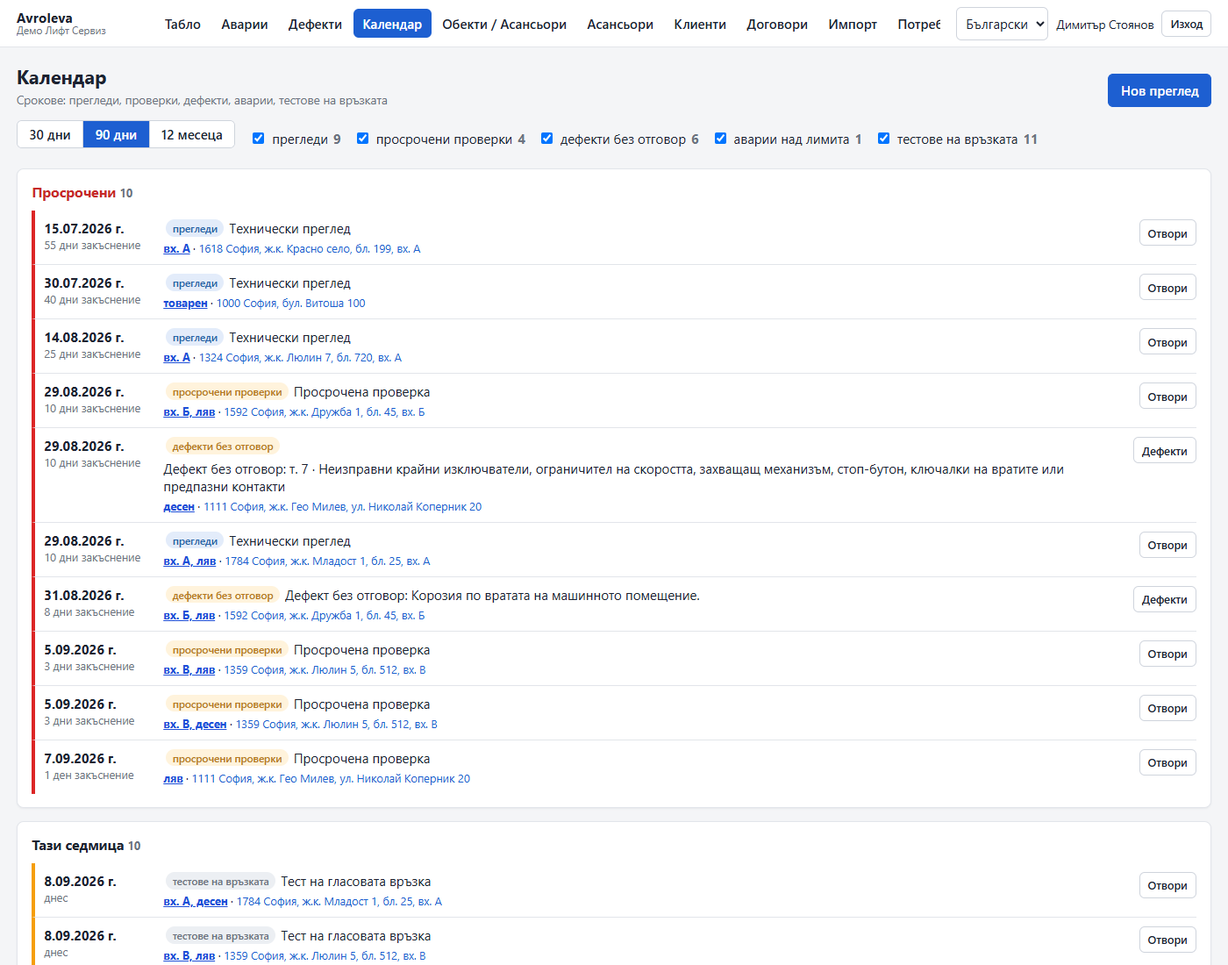
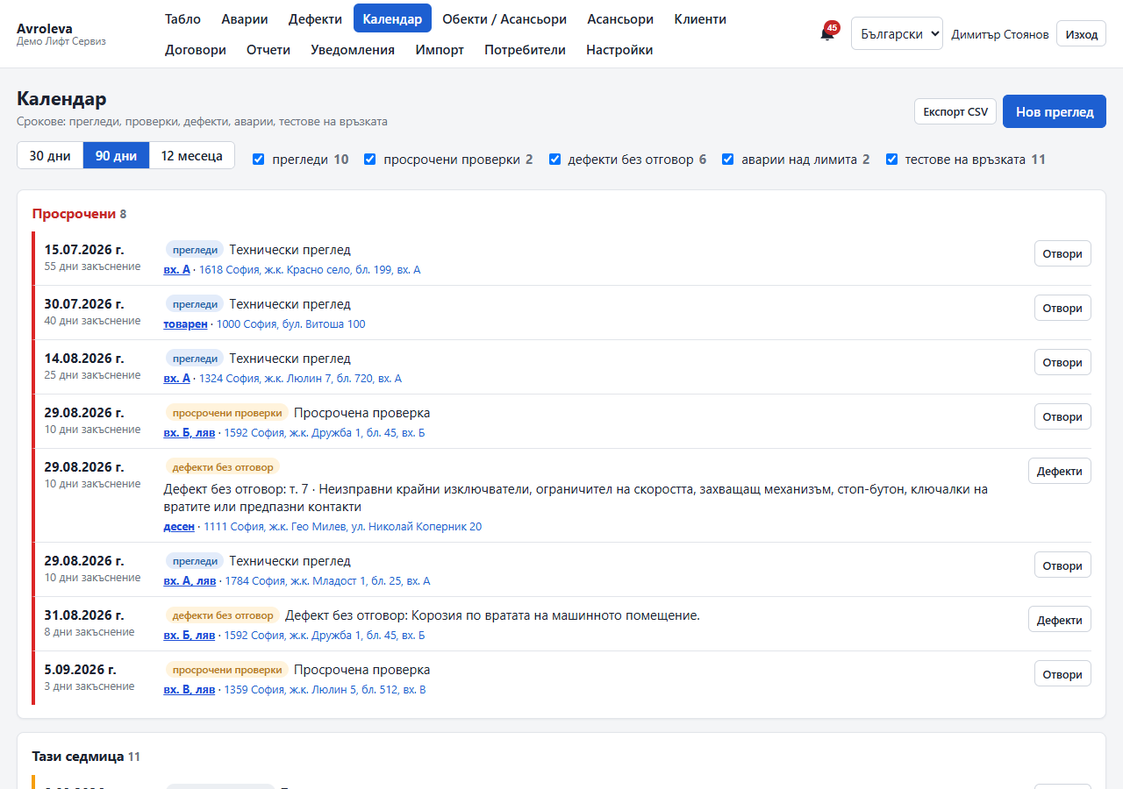
docs: QA log, step 5 handoff verification, README rewrite, morning report, screenshots
- docs/QA-2026-09-08.md: 11 bugs found and fixed, everything exercised in the browser (owner,
  office, technician, admin, technician app offline/online), security quick-check, gate status.
- HANDOFF-STEP5.md section 5: the office UI of step 5 and its browser verification.
- README.md: what Avroleva is, feature list, screenshot gallery, quickstart, workspace layout,
  document index. MORNING-REPORT.md for the founder: what was built, how to run, status,
  deviations, gaps with sizes, deploy summary, decisions needed.
- docs/screenshots: dashboard/callbacks/calendar retaken after the nav fix; new notifications,
  notification-settings, data-settings, defects, elevator, reports, users, qr-labels,
  tech-outbox-offline, admin-tenants.

diff --git a/MORNING-REPORT.md b/MORNING-REPORT.md
@@ -1,0 +1,87 @@
+# Avroleva — morning report (2026-09-08)
+
+Everything below is committed on `main` in this folder. Nothing was pushed to GitHub and the VPS was not touched. Unverified claims are marked as such; everything else was exercised in a browser or a test run tonight.
+
+## What was built overnight
+
+| Step | What exists now | Handoff / screenshots |
+|---|---|---|
+| 1 Foundation | Monorepo (api/office/tech + contracts/i18n/domain-data), Prisma schema, sessions, platform admin, tenant registration, registry (customers, contacts, buildings with geocoding, elevators, contracts), CSV import with preview, office shell with bg/en. | `HANDOFF-STEP1.md` |
+| 2 Dashboard | 30-day cycle engine, visits, light billing (gapless invoices, VAT, payments), dashboard read model: map with pins by due state, due board, payments widget, elevator panel. | `HANDOFF-STEP2.md`, `dashboard.png`, `elevator.png` |
+| 3 Callbacks, defects, calendar | Callback flow with SLA timer, defect catalogue with follow-up clock and stop-lift ring, inspections and alarm tests, public QR page with fault form, printable defect notice / inspection request / QR labels. | `HANDOFF-STEP3.md`, `callbacks.png`, `defects.png`, `calendar.png`, `public-page.png`, `qr-labels.png` |
+| 4 Technician app | Offline-first PWA: QR enrollment, device sessions, Today list, visit form with checklist snapshot, camera, second technician, outbox with idempotency keys, printable logbook page. | `HANDOFF-STEP4.md`, `tech-today.png`, `tech-visit.png`, `logbook-print.png` |
+| 5 Scheduler, notifications, exports | pg-boss jobs (11), outbox delivery with retries, notification rules × channels × templates (bg/en, tenant overrides), delivery log and bell, CSV + full zip export, delete-my-data with 30-day grace, monthly building report (print + e-mail), admin system page. Office UI for all of it. | `HANDOFF-STEP5.md`, `notifications.png`, `notification-settings.png`, `data-settings.png`, `building-report.png` |
+| 6 QA + deploy (tonight) | Full QA pass with 11 fixes, regression tests, production Docker image verified locally behind nginx, compose, nginx snippet, backup/restore/deploy scripts, CI workflow, `DEPLOY.md`, this report. | `docs/QA-2026-09-08.md`, `DEPLOY.md`, `tech-outbox-offline.png`, `admin-tenants.png` |
+
+## Run it locally (five commands)
+
+```bash
+docker start unclecrm-db     # the shared dev Postgres (or: docker compose up -d db and set DATABASE_URL to :5436)
+npm install
+npm run db:reset             # drop + migrate + seed the demo tenant (dev DB only)
+npm run dev                  # API :3005, office http://localhost:5175, technician app http://localhost:5176/tech/
+npm test                     # 215 tests against avroleva_test
+```
+
+Logins: owner `demo` / `demo1234`, office `maria` / `demo1234`, technician `ivan` / `demo1234`, platform admin `admin` / `admin12345` at `http://localhost:5175/admin/login`. To try the phone app on the desktop: Потребители → "Свържи телефон" for Иван → open the printed URL in another browser profile.
+
+## Status
+
+- `npm run typecheck`: green (api, office, tech).
+- `npm run lint`: green (eslint + prettier).
+- `npm test`: **215 passed** (i18n 12; API unit 94 + integration 109), 0 failed. Three new regression tests tonight.
+- `npm run build`: green (packages, api, office, tech incl. service worker).
+- Docker: `docker/Dockerfile` built and run as a throwaway stack (`avroleva-verify`, port 3105) with the real nginx snippet in front: health with the worker running and `callbacks.slaWatch` ticking, login, dashboard with 19 pins, elevator page with photo thumbnails, `/avroleva/tech/` loads and enrolls a phone, logbook print page, public QR page, CSV export with BOM, `backup.sh` + `restore-drill.sh` (dump restored into a scratch container: 1 tenant, 20 elevators, 347 visits, 15 attachments). Stack removed afterwards. **Not verified:** service-worker registration inside the embedded browser (the file serves correctly; confirm the PWA install on a real phone after deploy), and the CI workflow has never run (no GitHub remote yet).
+
+## Verified in the browser tonight (owner, office, technician, admin)
+
+Every office route in Bulgarian and English at 1280 px and in Bulgarian at 820 px with zero console errors, zero failed API calls and zero raw i18n keys. Through the UI: visit from the dashboard and from the elevator page; callback open → dispatch → on site → close (response time computed, close-out visit recorded); stop-lift defect (map ring appears, resolve → disappears); inspection added; October invoices generated (12) and one paid; CSV export and full zip export (signed link, expired/tampered → 404); all six `/print/*` pages; public `/p/:token` page with a fault report (6th within the hour → 429); QR label sheet. Roles: technician gets 403 on money/users/exports/settings in the API and never sees them in the UI; office cannot manage users or the tenant. Admin: registered a new company, its owner saw an empty tenant and 404 on every demo-tenant id (incl. print pages), deactivate → 401, reactivate → login works. Technician app: enrolled with the office token, visit with photo online, API killed, second visit with photo recorded offline ("2 записа чакат"), API restarted, both visits arrived with photos. Details: `docs/QA-2026-09-08.md`.
+
+## Bugs found and fixed in QA (11)
+
+The two that mattered: (1) the overdue roll ran before every billing read, so concurrent page loads emitted `InvoiceOverdue` 3–5 times per invoice — the bell showed 99+ right after a reset; now one atomic `UPDATE … RETURNING`. (2) The seed's months of history were re-delivered by the outbox sweep as 266 fresh notifications on the first API start; the seed now acknowledges its own events. Also: the technician app was unreachable in the container (`/tech/` redirect loop) and photo URLs were double-prefixed behind `/avroleva/`; the top nav was clipped at 1280 px; technicians could see contract prices; there was no UI button to generate the month's invoices; small things (raw link label, favicons, a typecheck error, a gitignore rule). Full table in `docs/QA-2026-09-08.md`.
+
+## Deviations from ARCHITECTURE / MVP-PLAN and why
+
+- **PDF**: no Chromium renderer in the image. Every document is a print-ready HTML page (`/print/*`) and the monthly report goes out as an HTML attachment. Chromium adds ~250 MB and 150–250 MB RAM on a shared 3.8 GB VPS; the `PdfRenderer` port is where it plugs in when a customer needs PDF files.
+- **Notifications**: Viber is deep-link only (office taps the link, confirms "sent"); SMS has a generic HTTP adapter only, rules start OFF; e-mail is plain text turned into paragraphs. No per-contact opt-out yet.
+- **`calendar_item` and `maintenance_job` tables** are not materialised: the deadlines view derives from the read model and the cron only emits events. Simpler, and nothing needed the rows yet.
+- **Audit log is not hash-chained** (`prevHash/hash` columns still open); the full export's `manifest.json` covers zip integrity.
+- **`PUBLIC_BASE_URL` is the origin only** (`https://srv1662742.hstgr.cloud`), not `…/avroleva` as §7 says: the code appends `BASE_PATH` itself. `DEPLOY.md` and the env example are right; ARCHITECTURE §7 still has the old value.
+- **Pricing/subscription module is a skeleton**: no plan rows, no `trialing` state, no usage snapshots — the demo tenant has no subscription concept at all. This is the largest open item from MVP-PLAN phase 6.
+- **No Playwright suite committed** (the architecture calls for one nightly smoke). Tonight's browser scripts lived in a scratch folder; porting them is ~1 day.
+- **Row-level security** not used (as decided in §6); isolation is enforced in the repos and covered by tests.
+
+## Known gaps (rough sizes)
+
+| Gap | Size |
+|---|---|
+| Pricing plans, subscription state, 3-month trial, usage counting, admin view of who pays | 3–4 days |
+| PDF renderer (Chromium or Gotenberg sidecar) + branded e-mail layout | 2 days |
+| Real SMS adapter for a Bulgarian aggregator; Viber Business adapter (flagged) | 1 day each |
+| Per-contact notification opt-out; delivery webhooks | 1 day |
+| Playwright e2e suite (port of tonight's scripts) + nightly run | 1 day |
+| Audit hash chain + verifier script | 1 day |
+| Offsite backup copy (restic → B2 / Storage Box) and UptimeRobot | 0.5 day |
+| Full export streams to a temp file instead of memory (only matters past a few hundred MB) | 0.5 day |
+| Read-only mode during the deletion grace period; admin UI for the system page | 0.5 day each |
+
+## Deploy (summary — the exact commands are in `DEPLOY.md`)
+
+1. Create the GitHub repo (private, empty), push `main` from this PC with the repo-local identity.
+2. On the VPS: deploy key + `/root/.ssh/config` alias, clone to `/var/www/avroleva`, `cp .env.production.example .env` and fill the three secrets with `openssl rand -hex 32`, `SEED_DEMO=false` (or `true` for a demo tenant), `PUBLIC_BASE_URL=https://srv1662742.hstgr.cloud`.
+3. `docker compose -f docker-compose.prod.yml up -d --build` → the container migrates, seeds the admin, starts API + worker on `127.0.0.1:3005`.
+4. Copy `deploy/nginx-avroleva.conf` to `/etc/nginx/snippets/`, add one `include` line inside the existing `listen 443 ssl` server block, `nginx -t && systemctl reload nginx`; check the other five apps still return 200.
+5. Health: `https://srv1662742.hstgr.cloud/avroleva/api/v1/health` shows `worker.running: true`. Log in at `/avroleva/admin/login`, register the first firm.
+6. Cron `scripts/backup.sh` nightly; run `scripts/restore-drill.sh` once; rollback = `git checkout <previous tag> && up -d --build`.
+
+## Decisions needed from you (in priority order)
+
+1. **Domain, before any QR label is printed or any technician installs the app.** The PWA identity, its offline data and every printed QR code are bound to the origin. Path-prefix `srv…/avroleva/` is fine for demos; the founding customer must start on `app.<yourdomain>` (new server block + certbot). Also: the GitHub repo name.
+2. **Production secrets and the admin account**: `SESSION_SECRET`, `POSTGRES_PASSWORD`, `ADMIN_PASSWORD` generated on the VPS (commands in `DEPLOY.md`); whether the platform admin username stays `admin`.
+3. **Pricing configuration values**: per-elevator price, tiers (0/1–100/101–200), flat-plan option, VAT display, currency (EUR with BGN reference is what the UI shows now). Nothing is coded until you decide — see the gap table.
+4. **3-month trial mechanics**: trial start = registration or first import? What happens at the end (read-only, grace, e-mail sequence)? Who flips a tenant to paying (you in /admin)?
+5. **Notification channels to enable by default**: today in-app + e-mail rules are ON, SMS OFF, Viber deep-link ON for building contacts without e-mail. Which SMTP provider/sender address? Which SMS aggregator, if any?
+6. **Viber Business or not**: ~€150/month fixed; deep links work today but are manual and unverifiable. Suggest deferring until ~10 paying firms.
+7. **Keep the demo tenant in production?** `SEED_DEMO=true` gives you a sales demo at the same URL; it also means demo data sits next to real firms. Suggest: yes for now, purge before the first real invoice run.
+8. Smaller: `retentionYears` default (keep everything vs. N years), e-mail "from" name, whether office users may see the Viber phone links (they do now), and the monthly report send day.

diff --git a/README.md b/README.md
@@ -1,14 +1,77 @@
-# Avroleva — Elevator Business Site Code
+# Avroleva
 
-B2B SaaS for Bulgarian elevator-maintenance firms (асансьорни сервизи): a business-operations and customer-evidence layer on top of the paper logbook (дневник), shaped like the firm's working rhythm — 30-day functional checks, two technicians, the emergency response timer, the 17-item stop-defect catalogue, inspection dates, the long-term dossier. Regulator-facing outputs are deliberately out of the MVP (see `MVP-PLAN.md` backlog).
+Avroleva is a multi-tenant SaaS for Bulgarian elevator-maintenance firms (асансьорни сервизи). It is the business-operations and customer-evidence layer on top of the paper logbook (дневник): the 30-day functional checks with two technicians, the emergency-call response timer, the 17-item stop-defect catalogue, inspection dates, the monthly report to the building, light invoicing, and the long-term dossier a firm keeps for every lift. Each firm is a tenant with strict data isolation, can export all of its data at any time as CSV or a full zip, and can delete it after a 30-day grace period — the product holds the firm's own operational record for the firm alone.
 
-This folder holds the design documents **and the application code** (npm-workspaces monorepo: `apps/api`, `apps/office`, `apps/tech` (technician PWA), `packages/contracts`, `packages/i18n`, `packages/domain-data`). Step 1 (foundation: platform, tenancy, registry, office UI) is built — see [`HANDOFF-STEP1.md`](./HANDOFF-STEP1.md) for how to run it and what exists; the latest state is in [`HANDOFF-STEP5.md`](./HANDOFF-STEP5.md) (pg-boss scheduler, notifications, exports + delete-my-data, monthly building report); step 4 is [`HANDOFF-STEP4.md`](./HANDOFF-STEP4.md) (offline technician app, attachments, sync). The GitHub repo name is still to be confirmed with the founder (see `D:\Code\GITHUB-GUIDE.md`).
+The office app is a desktop-first React SPA in Bulgarian (English available) with a map of the portfolio, a due board, callbacks, defects, calendar, contracts, invoices, notifications and printable pages (logbook page, defect notice, inspection request, QR labels, monthly building report). Technicians use an offline-first PWA on their phone: enrolled by QR code, it caches today's lifts, records visits with checklist, photos and a second technician's name without a network, and syncs when one returns. Regulator-facing outputs are deliberately out of scope; the vocabulary everywhere is operational.
+
+## Features
+
+- **Register**: customers (ползватели) with contacts, buildings with geocoded addresses and access notes, elevators with intervals and inspection dates, contracts with per-elevator prices, CSV import with preview.
+- **Maintenance cycle**: per-elevator interval (30 days by default, rolling or calendar), due board (overdue / today / tomorrow), map pins coloured by due state, "record a visit" from the board or the elevator page, visits with checklist snapshot, photos and quality flags.
+- **Callbacks (аварии)**: intake by phone/office or from the public QR page, dispatch, on-site, close-out with cause/action and an automatic visit record; SLA timer with at-risk and breached events.
+- **Defects**: catalogue of the 17 stop-lift items plus free text, follow-up clock, notice to the building, "customer requested repair", stop-lift ring on the map until resolved.
+- **Calendar**: inspections (periodic, after repair, after stop) with alert steps, alarm-device tests, overdue checks, defect follow-ups — one deadlines view.
+- **Money (light)**: monthly invoices per contract with gapless numbering and VAT, payments (full/partial/unallocated), overdue roll, dashboard totals.
+- **Notifications**: rule matrix per event × channel (in-app, e-mail, SMS, Viber deep link) × recipient (building contact, owner, office, technician); Handlebars templates in bg/en with per-tenant overrides; delivery log; bell inbox.
+- **Reports and exports**: monthly building report (print + e-mail attachment), 13 CSV datasets, full zip export with SHA-256 manifest, delete-my-data with 30-day grace.
+- **Technician PWA**: QR enrollment with device sessions, Today list with call/navigate buttons, visit form with checklist, camera, second technician, outbox with retries, forced-update header.
+- **Platform admin**: register/deactivate tenants, reset owner passwords, system page (health, worker jobs, failed deliveries, scheduled deletions).
+- **Scheduler**: pg-boss in the same Postgres (no Redis) — hourly recompute, daily overdue roll, calendar alerts, SLA watch every minute, retention sweep, orphan cleanup, tenant purge, outbox catch-up.
+
+## Screenshots
+
+| | |
+|---|---|
+| ![Dashboard](docs/screenshots/dashboard.png) Dashboard: map, due board, payments | ![Callbacks](docs/screenshots/callbacks.png) Callbacks with the response timer |
+| ![Defects](docs/screenshots/defects.png) Defects with follow-up clock and stop-lift | ![Calendar](docs/screenshots/calendar.png) Deadlines calendar |
+| ![Elevator](docs/screenshots/elevator.png) Elevator page with history and photos | ![Notifications](docs/screenshots/notifications.png) Notifications log with Viber links |
+| ![Notification settings](docs/screenshots/notification-settings.png) Rules and template editor | ![Data settings](docs/screenshots/data-settings.png) Exports and delete-my-data |
+| ![Building report](docs/screenshots/building-report.png) Monthly building report (print) | ![Logbook page](docs/screenshots/logbook-print.png) Logbook page (print) |
+| ![QR labels](docs/screenshots/qr-labels.png) QR label sheet | ![Public page](docs/screenshots/public-page.png) Public QR page with fault form |
+| ![Tech today](docs/screenshots/tech-today.png) Technician app: Today | ![Tech visit](docs/screenshots/tech-visit.png) Technician app: visit form |
+| ![Tech outbox offline](docs/screenshots/tech-outbox-offline.png) Technician app: outbox while offline | ![Admin](docs/screenshots/admin-tenants.png) Platform admin |
+
+## Quickstart (local)
+
+Requirements: Node 22+, Docker Desktop (for Postgres). One `.env` at the repo root (copy `.env.example`; the defaults point at the shared dev Postgres container `unclecrm-db` on `localhost:5432`, or start `docker compose up -d db` and point `DATABASE_URL` at `127.0.0.1:5436`).
+
+```bash
+npm install
+npm run db:migrate        # creates the schema (and avroleva_test for the integration tests)
+npm run db:seed           # platform admin + system templates + demo tenant (SEED_DEMO=true)
+npm run dev               # API http://localhost:3005, office http://localhost:5175, tech http://localhost:5176/tech/
+npm test                  # i18n + API unit/integration tests against avroleva_test
+```
+
+`npm run db:reset` drops and reseeds the dev database. Demo logins: owner `demo` / `demo1234`, office `maria` / `demo1234`, technician `ivan` / `demo1234`, platform admin `admin` / `admin12345` at `/admin/login`. Other scripts: `npm run lint`, `npm run typecheck`, `npm run build`.
+
+## Workspace layout
+
+```
+apps/api/         Express 5 + Prisma + pg-boss: src/{main.ts, app.ts, worker.ts, jobs.ts, subscribers.ts,
+                  http/, modules/<m>/{domain,repo,http,index.ts}, platform/}; prisma/ (schema, migrations, seed); test/
+apps/office/      React 19 + Vite 7 office SPA (desktop-first, Leaflet map), built with VITE_BASE
+apps/tech/        React 19 + Vite 7 + vite-plugin-pwa + Dexie technician app, served by the API at /tech/
+packages/contracts/   zod schemas and DTO types shared by API and clients
+packages/domain-data/ checklists, defect catalogue, notification templates, calendar rules
+packages/i18n/        bg.json (source) + en.json, t() for server and clients
+docker/           Dockerfile (multi-stage) + entrypoint (migrate -> seed -> start)
+deploy/           nginx snippet for the /avroleva/ path prefix
+scripts/          deploy.sh, backup.sh, restore-drill.sh (VPS)
+docs/             screenshots, QA log
+```
+
+## Documents
 
 | Document | What it is |
 |---|---|
-| [`ARCHITECTURE.md`](./ARCHITECTURE.md) | Modular monolith design: modules and boundaries, adjustability mechanisms, data model, offline-first technician PWA, API, cross-cutting concerns (PDF, jobs, storage, backups, GDPR, security, observability), deployment on the shared Hostinger VPS, testing strategy, decisions log. |
-| [`MVP-PLAN.md`](./MVP-PLAN.md) | Build plan: phases 0–9 with scope, acceptance criteria and day estimates; the 2-week demo; the founding-customer data import plan; risks and their containment; definition of done for "first customer live". |
-| [`../Elevator Business Due Diligence/`](../Elevator%20Business%20Due%20Diligence/) | The research this design rests on. Start with `00-SYNTHESIS.md`; `01-LAW-AND-REGULATION.md` §10 is the legal checklist, §3.12 the functional-check appendix; `03-…-OPERATES.md` has the data-model hints and ranked pain points; `04-…-BENCHMARK.md` the MVP scope and deferrals. |
-| [`../Elevator Businesses Data/`](../Elevator%20Businesses%20Data/) | ДАМТН register of licensed firms (509 active certificates) — the lead list and the source of the regional-office seed. |
+| [`MORNING-REPORT.md`](./MORNING-REPORT.md) | What was built overnight, status, gaps, decisions needed. Start here. |
+| [`ARCHITECTURE.md`](./ARCHITECTURE.md) | Modular monolith design: modules and boundaries, adjustability, data model, offline-first PWA, API, cross-cutting concerns, deployment, testing, decisions log. |
+| [`MVP-PLAN.md`](./MVP-PLAN.md) | Build plan: phases 0–9, the 2-week demo, the founding-customer import plan, risks, definition of done. |
+| [`DEPLOY.md`](./DEPLOY.md) | VPS runbook: deploy key, `.env`, compose, nginx include, backups, restore drill, rollback, decisions before go-live. |
+| [`HANDOFF-STEP1.md`](./HANDOFF-STEP1.md) … [`HANDOFF-STEP5.md`](./HANDOFF-STEP5.md) | Per-step handoffs: foundation; dashboard; callbacks/defects/calendar/public page; offline technician app; scheduler/notifications/exports/reports. |
+| [`docs/QA-2026-09-08.md`](./docs/QA-2026-09-08.md) | The QA pass: bugs found and fixed, what was exercised, security quick-check. |
+| `../Elevator Business Due Diligence/` | The research this design rests on (start with `00-SYNTHESIS.md`). |
+| `../Elevator Businesses Data/` | ДАМТН register of licensed firms — the lead list. |
 
-Conventions that apply to all code in this project: `D:\Code\VPS-GUIDE.md` (Docker, path-based nginx, port and backup conventions) and `D:\Code\GITHUB-GUIDE.md` (repo-local identity, deploy keys).
+Conventions that apply to all code here: `D:\Code\VPS-GUIDE.md` (Docker, path-based nginx, ports, backups) and `D:\Code\GITHUB-GUIDE.md` (repo-local identity, deploy keys). The GitHub repo name is still to be confirmed with the founder.

diff --git a/docs/QA-2026-09-08.md b/docs/QA-2026-09-08.md
@@ -1,0 +1,66 @@
+# QA pass — 2026-09-08 (step 6, before the morning report)
+
+Environment: Windows 11, Node 24, Chrome 152 (driven with playwright-core, headless), Postgres 16 in
+`unclecrm-db`, `npm run db:reset` then `npm run dev` (API :3005, office :5175, tech :5176).
+Method: every office route crawled in Bulgarian and in English at 1280 px and in Bulgarian at
+820 px (console errors, failed responses ≥ 400, raw i18n keys on screen, horizontal overflow,
+screenshot per page), then scripted end-to-end flows through the real UI, role crawls as
+`maria`/`ivan`, an API role matrix, the admin isolation flow, and the technician app online →
+offline → online. Every failure below was reproduced, fixed, and re-run green. Screenshots of the
+final state are in `docs/screenshots/`.
+
+## 1. Bugs found and fixed
+
+| # | Severity | Where | Symptom | Fix (commit) |
+|---|---|---|---|---|
+| 1 | high | API `billing.rollOverdue` | Concurrent billing reads (dashboard + payments widget + summary load at once) each rolled the same issued invoices and emitted `InvoiceOverdue` 3–5× per invoice; the demo bell showed **99+** minutes after `db:reset`. | One atomic `UPDATE … RETURNING`; 4 concurrent rolls now emit exactly n events (`step6.test.ts`). `29b2216` |
+| 2 | high | seed + outbox sweep | The seed writes months of history through the real services; `events.sweep()` found those events without delivery rows and delivered them all on the first API start: 144 in-app + 54 Viber + 18 e-mail "issued invoice" rows plus the duplicates from #1 (266 rows). | `events.acknowledge(tenantId, SUBSCRIPTIONS)` at the end of the seed marks history delivered without running handlers; the demo inbox now holds the 6 curated rows only. `29b2216` |
+| 3 | high (deploy) | API `static.ts` | Under the production image `GET /tech/` looped: Express 5 matched `app.get('/tech')` for `/tech/` too and redirected it to itself. The PWA was unreachable in the container. | Exact-match regex. `f7f5b15` |
+| 4 | high (deploy) | office `ElevatorTabs`, tech `http.ts` | Behind the `/avroleva/` prefix photo thumbnails and downloads requested `/avroleva/avroleva/files/…` (the API already mints BASE_PATH into signed URLs). | `serverPath()` in the office, no double prefix in the tech client. `f7f5b15` |
+| 5 | medium | office nav | At 1280 px the top nav was clipped after "Договор…" (Отчети, Уведомления, Импорт, Потребители, Настройки reachable only by an invisible horizontal scroll); at 820 px only four items were visible. | Nav wraps; topbar `min-height`. `6854814` |
+| 6 | medium | office, technician role | `ivan` saw contract prices on the contracts list and detail, building and customer pages (the dashboard widgets and elevator panel were already gated). | Every money cell gated to owner/office. Verified with a role crawl. `6854814` |
+| 7 | medium | office | No way to generate the month's invoices from the UI (API only). | "Генерирай фактури" button in the payments widget (confirm, idempotent, toast with created/skipped). `6854814` |
+| 8 | low | notifications log | The link column showed the raw `relatedType` ("invoice"). | Translated "Отвори"/"Open". `6854814` |
+| 9 | low | office, tech, print/public pages | No favicon → a 404 in the console on every page load. | Inline SVG favicon (office), PNG icon (tech), `data:` icon on server-rendered pages. `6854814` |
+| 10 | low | tech typecheck | `apps/tech/src/pages/VisitPage.tsx` did not compile against the step-5 contract (`photosPurgedAt`). | Field added. `c00cf37` |
+| 11 | low | `.gitignore` | `.env.production.example` was ignored by the `.env.*` rule. | Exception added. `8d75828` |
+
+Not bugs, but noted: the office at 820 px is usable but dense (tables scroll inside their
+wrappers, no page overflow); the login page has no "forgot password" (by design — the owner
+resets from Потребители, the platform admin from /admin); the `PUBLIC_BASE_URL` documented in
+ARCHITECTURE §7 (`…/avroleva`) is wrong for the code, which appends `BASE_PATH` itself — the
+deploy files use the origin only (see `DEPLOY.md`).
+
+## 2. What was exercised (all green after the fixes)
+
+**Crawl** (`demo`, owner): 28 routes × bg/en at 1280, 18 routes at 820, 3 admin routes. Zero
+console errors apart from the expected pre-login `/auth/me` 401, zero failed API calls, zero raw
+i18n keys, no horizontal page overflow. The English pass shows no untranslated strings.
+
+**Flows through the UI** (`demo`):
+- Record a visit from the dashboard due list (dialog: date, kind, technicians checkboxes, notes) and from the elevator page (kind = техническо обслужване) — both appear in the history with the technicians.
+- Callback: Нова авария → pick elevator by search → повреда, caller, phone → Изпрати техник (inline select) → На място → Приключи (cause, action, "record a visit" checked) → status `closed`, response time computed, the close-out visit exists.
+- Stop-lift defect (catalogue item 1, висока, "Асансьорът трябва да спре") on an elevator that was not stopped: the map legend went 2 → 3 "спрян" (ring), Отстранен → back to 2.
+- Inspection: Нов преглед (periodic, body, scheduled 2026-10-15) → appears in the calendar and the API.
+- Invoices: "Генерирай фактури" for 2026-10 → 12 issued, 0 skipped (re-run: 0 issued, 12 skipped); "Отбележи като платено" on one → payment recorded, totals updated.
+- Exports: elevators CSV (UTF-8 BOM, 21 lines), full export (zip, 350 KB, signed link 200, tampered/expired 404).
+- Print pages: logbook, defect notice, inspection request, single label, building label sheet, monthly building report — all 200 and readable (Cyrillic, QR codes).
+- Public page `/p/:token`: loads, the fault form creates a callback with `channel=public_page`; a 6th report within the hour → 429.
+
+**Roles**: API matrix for `ivan` (technician) — 403 on billing, users, sessions, exports (list, CSV, full), reports, notifications log/rules, tenant patch, delete request, imports, invoice generation, building-report print; 200 on inbox, tenant, dashboard, visits, callbacks, logbook print. `maria` (office) — 200 on money/exports/reports/notifications/users list, 403 on user creation, sessions, tenant patch, delete request. UI crawl: `ivan` is bounced to `/` from /reports, /notifications, /import, /users, /settings/notifications, /settings/data and sees no payments widget, no prices, no CSV buttons; `maria` is bounced from /users only.
+
+**Admin / isolation**: registered "QA Лифт" with an owner from /admin/tenants/new, logged in as that owner in a second browser context: every list empty (users = 1), dashboard 0/0; the demo tenant's elevator, building, visit, defect, inspection, report, logbook and building-report URLs → 404. Деактивирай → the owner's session answers 401 and login is refused; reactivate → login 200.
+
+**Technician app**: enrolled `ivan` with a token from Потребители → "QA телефон" → Today list pulled (clock offset 0 s). Visit with checklist "Всичко OK", second technician, one photo, notes → outbox drained → office shows `source=app`, `timestampSource=device`, 21 checklist items, photo uploaded, thumbnail 200. API process killed → second visit with a photo recorded from the cached Today list → outbox "2 записа чакат, 1 снимка за качване" → API restarted → drained within 30 s → both visits in the office with photos.
+
+**Security quick-check**: login limiter 20/15 min per IP (21st → 429); public fault form 5/h per elevator (6th → 429); signed file URLs: fresh 200, `exp` in the past 404, tampered `sig` 404, no signature 404; `git ls-files | grep .env` → `.env.example`, `.env.production.example` only; no literal secrets in tracked code; cross-tenant 404s covered by `step2–5` tests (callbacks, defects, inspections, visits, attachments, sync, exports, reports, notifications) and by the admin flow above.
+
+## 3. Test / lint / build after the pass
+
+`npm run typecheck` green; `npm run lint` (eslint + prettier) green; `npm test`: i18n 12 + API 203 = **215** (was 212; `step6.test.ts` adds 3); `npm run build` (packages, api, office, tech + PWA) green. Docker image built and verified locally behind a throwaway nginx (see `DEPLOY.md` and the `8d75828` commit message).
+
+## 4. Left as known gaps (not fixed here)
+
+- The demo tenant keeps growing while you click around; `npm run db:reset` restores it (done at the end of this pass).
+- Service-worker registration was not verifiable inside the embedded browser pane during the Docker run; `sw.js` serves correctly — confirm the PWA install on a real phone after deploy.
+- No Playwright suite is committed; the scripts used here lived in a scratch folder (they log in through the UI, crawl, and drive the dialogs). Worth porting into `apps/office/e2e/` before the first customer.

diff --git a/HANDOFF-STEP5.md b/HANDOFF-STEP5.md
@@ -62,11 +62,26 @@ Env added (`.env.example`): `ROLE`, `WORKER_ENABLED`, `CRON_ENABLED`, `EMAIL_PRO
 5. Template = `TEMPLATE_KEY_BY_EVENT[type]` + channel + locale (contact → tenant locale, user → user locale). Helpers: `{{date x}} {{datetime x}} {{money cents}} {{t "key"}} {{join list ", "}}`. Data keys: `tenant.*`, `building.addressText/customerName`, `elevator.internalNo/regNo`, `contact.name/phone/email`, `user.name`, `visit.date/kindLabel/technicians/summary/defects/notes/flags`, `callback.receivedAt/classificationLabel/description/trappedCount/responseMinutes/elapsedMinutes/slaMinutes/cause/actionTaken`, `invoice.number/period/totalCents/dueAt`, `inspection.dueAt/inDays`, `defect.description/recordedAt/followUpDueAt`, `check.dueAt/overdueDays`, `report.*`, `export.*`, `deletion.at`, `link`.
 6. The row is written first, then the channel: in-app done, viber_link waits for the office (log page → "Изпрати по Viber" → "Маркирай като изпратено"), e-mail/SMS through the `notifications.deliver` job.
 
-## 5. Office UI (step 5)
+## 5. Office UI (step 5) and browser verification
 
-_(filled in after the UI lands — see the commit "feat(office): …")_
+Commit `b5a89b7` (feat(office): notifications, reports, exports and data settings UI):
 
-Screenshots: `docs/screenshots/notifications.png`, `building-report.png`, `data-settings.png`.
+| Where | What |
+|---|---|
+| Topbar | `NotificationsBell`: unread count from `GET /notifications/inbox`, dropdown with the latest rows, "mark read", link into the related record (polls every 60 s, refetches on focus). |
+| `/notifications` (owner, office) | Delivery log: channel / status filters, subject + body preview, recipient, error text, "Отвори" link; Viber rows carry `ViberLinks` (`viber://chat`, `viber://forward?text=`, `viber.click`) and "Маркирай като изпратено". |
+| `/settings/notifications` | `SettingsNav` tabs (Общи / Уведомления / Данни). Rule grid per event × channel × recipient with the `InspectionDueSoon` day steps (7/30/60/90); template editor with event / channel / language selectors, live preview on sample data, save an override / reset to the system row, test-send to yourself. |
+| `/settings/data` | CSV export buttons for the 13 datasets (`ExportCsvButton`, owner/office only), "Подготви пълен експорт" + runs table with fresh signed links, retention years, the delete-my-data card (password re-entry, 30-day grace, cancel while pending; the tenant shows `deletionAt` in the topbar banner). |
+| `/reports` | Month picker, "Генерирай за всички обекти", "Изпрати на всички обекти с имейл", the `report_run` list with open / send per building. |
+| Building page | `BuildingReportCard` (open the printable report for a month, send to the contact) and `BuildingViberCard` (ready-made Viber text for the primary contact). |
+| Dashboard | `ThisMonthStrip` (visits, callbacks, average response minutes) under the title. |
+| Every list page | "Експорт CSV" button (elevators, buildings, customers, contracts, callbacks, defects, calendar). |
+| Admin | Tenant list shows scheduled deletions; tenant detail can cancel a deletion at the owner's written request. |
+| i18n | ~180 keys added to `bg.json` / `en.json`; the English pass of the QA crawl shows no raw keys or untranslated strings. |
+
+Verification (2026-09-08, see `docs/QA-2026-09-08.md` for the whole pass): the bell shows the seeded inbox rows and marks them read; a recorded visit produces a queued Viber row for the building contact (no e-mail on file) and an e-mail row through the console adapter when the contact has one; the template preview renders bg/en with the date and money helpers; the full export finished in ~1 s for the demo tenant and the signed link downloaded a 350 KB zip; a 24-hour-old or tampered link answers 404; the building report for September rendered the visits and technicians of the month; the delete-request card refused a wrong password (403) and showed the 30-day date after the right one; the platform admin saw the scheduled deletion and cancelled it. Two things found and fixed during that pass belong to this step: the overdue roll emitted `InvoiceOverdue` several times per invoice under concurrent reads, and the outbox sweep delivered the seed's history as fresh notifications on the first start (commit `29b2216`).
+
+Screenshots: `docs/screenshots/notifications.png` (log with Viber links), `notification-settings.png` (rules + template editor), `building-report.png` (printable monthly report), `data-settings.png` (exports, full export run, delete-my-data).
 
 ## 6. Tests
 
